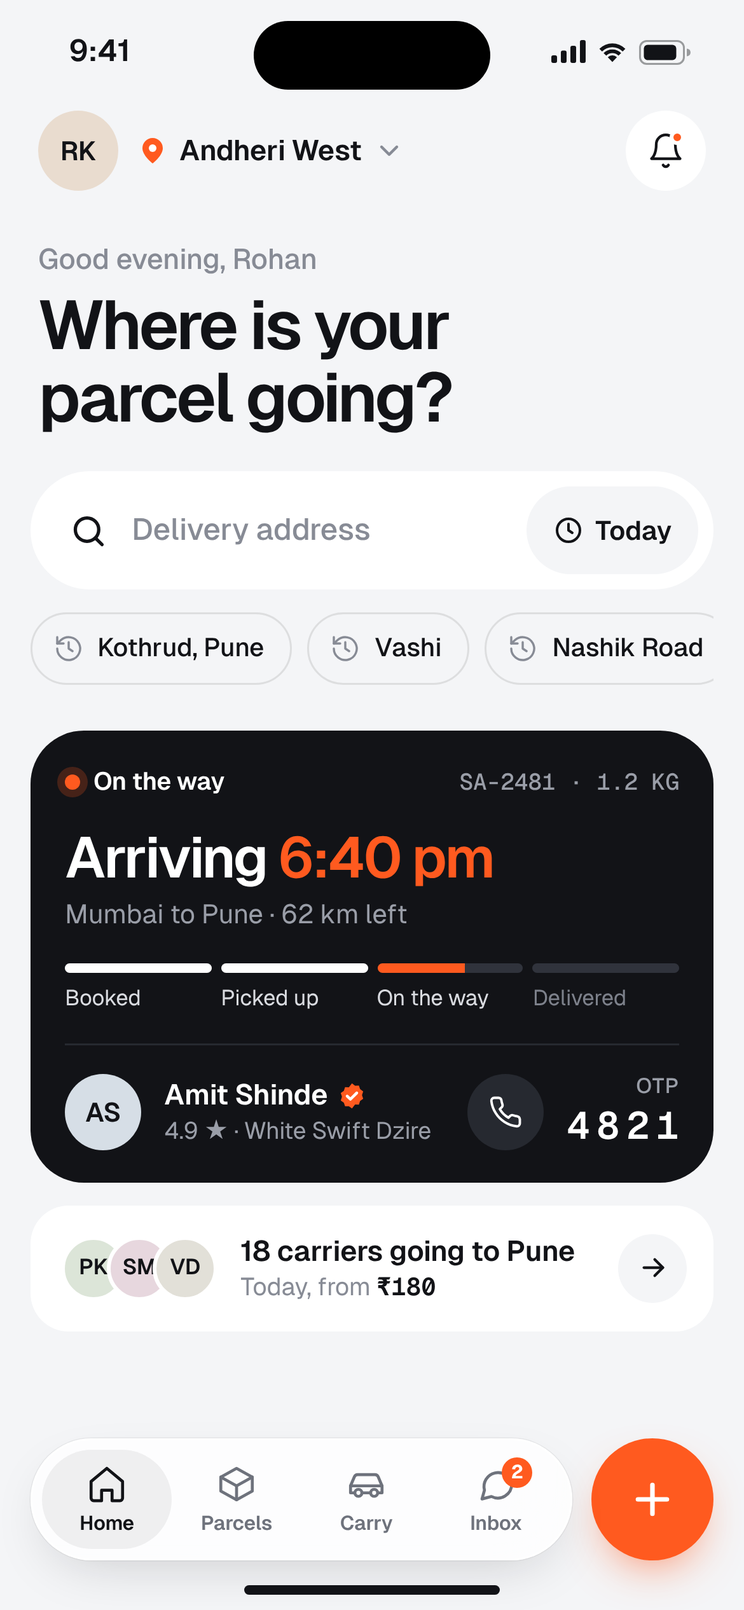
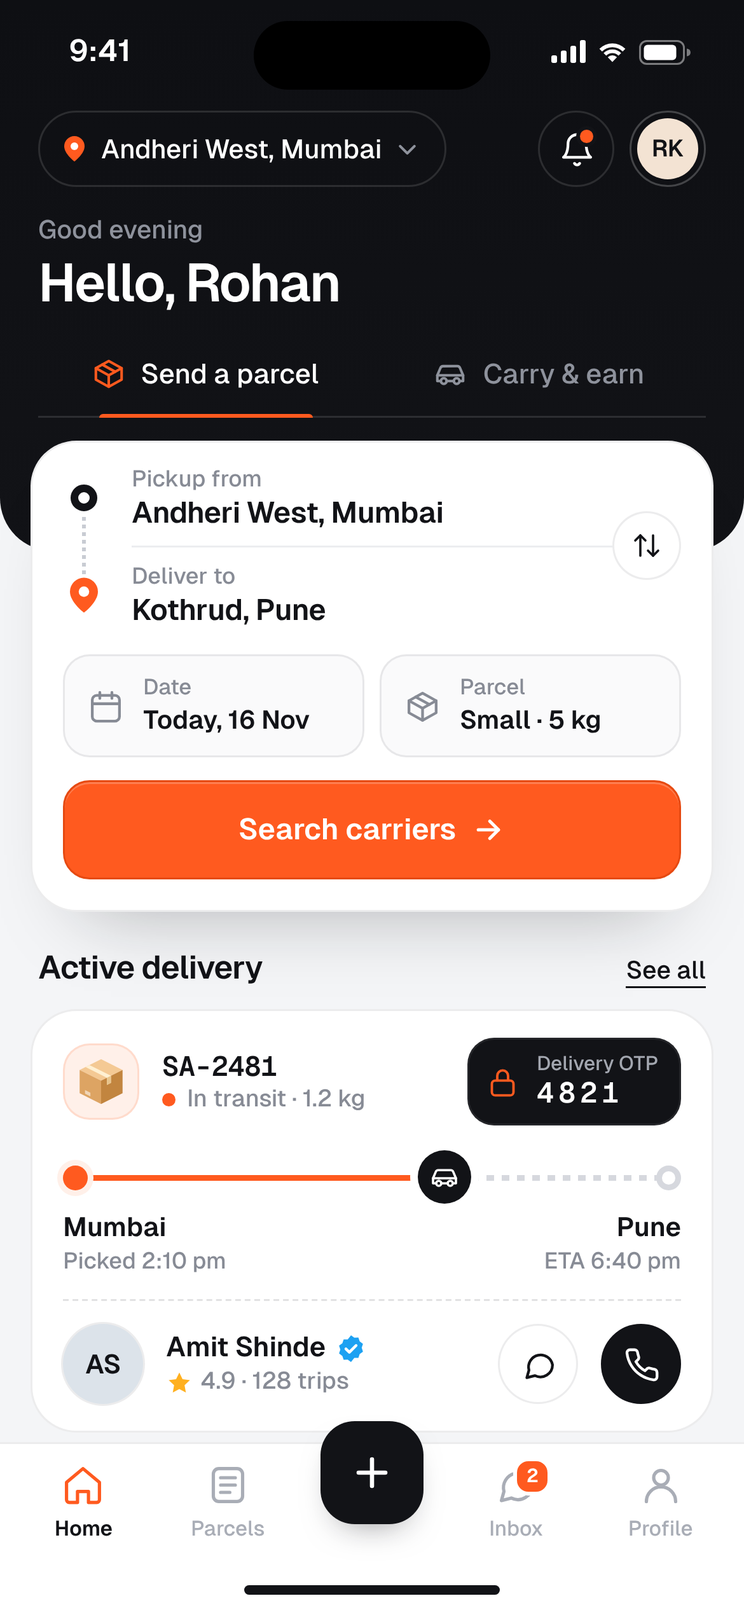
Parcel app: Home back to card format; Geist font, thin borders, new header (location pill, greeting, underline tabs)
Claude-Session: https://claude.ai/code/session_019gSuA1pXvK91U992uEGxpi

diff --git a/design/parcel-app/src/app.css b/design/parcel-app/src/app.css
@@ -1,5 +1,6 @@
 /* Parcel app · client UI kit (not Outgrid brand)
-   Font: Geist + Geist Mono (numbers, IDs, OTP) · Primary: Ember orange · Ink: near-black */
+   Font: Geist (+ Geist Mono for IDs and OTP) · Primary: Ember orange · Ink: near-black */
+
 @font-face{font-family:Geist;font-weight:400;src:url(fonts/geist-sans-latin-400-normal.woff2)}
 @font-face{font-family:Geist;font-weight:500;src:url(fonts/geist-sans-latin-500-normal.woff2)}
 @font-face{font-family:Geist;font-weight:600;src:url(fonts/geist-sans-latin-600-normal.woff2)}
@@ -13,97 +14,128 @@
   --bg:#F4F5F7; --card:#FFFFFF; --line:#ECEDF0;
   --text:#121317; --sub:#878B95; --sub2:#A9ADB6;
   --green:#16A765; --green-soft:#E7F7EF;
-  --r-sm:12px; --r-md:20px; --r-lg:28px;
-  --hair:rgba(18,19,23,.07);
+  --hair:rgba(18,19,23,.08); --hair-d:rgba(255,255,255,.12);
 }
 *{box-sizing:border-box;margin:0;padding:0}
 html,body{width:390px;height:844px;background:var(--bg)}
-body{font-family:Geist,sans-serif;color:var(--text);font-size:15px;line-height:1.35;letter-spacing:-.01em;-webkit-font-smoothing:antialiased}
-.mono{font-family:GeistMono,monospace;letter-spacing:0}
-svg.i{width:20px;height:20px;fill:none;stroke:currentColor;stroke-width:1.7;stroke-linecap:round;stroke-linejoin:round;flex:none}
+body{font-family:Geist,sans-serif;color:var(--text);font-size:14px;line-height:1.35;letter-spacing:-.005em;-webkit-font-smoothing:antialiased}
+b{font-weight:600}
+.mono{font-family:GeistMono,monospace}
+svg.i{width:20px;height:20px;fill:none;stroke:currentColor;stroke-width:1.8;stroke-linecap:round;stroke-linejoin:round;flex:none}
 
 .screen{position:relative;width:390px;height:844px;overflow:hidden;background:var(--bg)}
 
 /* status bar */
 .sb{height:50px;display:flex;align-items:center;justify-content:space-between;padding:4px 28px 0 36px;font-size:16px;font-weight:600;position:relative;z-index:2}
 .sb svg{fill:currentColor}
+.sb.light{color:#fff}
 .sbr{display:flex;gap:6px;align-items:center}
 .island{position:absolute;top:11px;left:50%;transform:translateX(-50%);width:124px;height:36px;border-radius:20px;background:#000;z-index:3}
 
-/* shared bits */
-.circle{width:42px;height:42px;border-radius:50%;background:var(--card);display:flex;align-items:center;justify-content:center;color:var(--ink);position:relative;flex:none}
-.circle .dot{position:absolute;top:10px;right:11px;width:8px;height:8px;border-radius:50%;background:var(--primary);border:2px solid var(--card)}
-.face{width:42px;height:42px;border-radius:50%;display:flex;align-items:center;justify-content:center;font-weight:600;font-size:14px;flex:none;color:var(--ink)}
-.f1{background:#E9DCCF}.f2{background:#D6DEE6}.f3{background:#DCE5D8}.f4{background:#E7D7DE}.f5{background:#E2E0D8}
+/* avatars */
+.avatar{width:46px;height:46px;border-radius:50%;display:flex;align-items:center;justify-content:center;font-weight:600;font-size:15px;flex:none}
+.avatar.sm{width:42px;height:42px;font-size:14px}
+.a1{background:linear-gradient(135deg,#FFB38F,#FF5A1F);color:#fff}
+.a2{background:#DCE3EA;color:var(--ink);box-shadow:0 0 0 1px var(--hair)}
 
 /* ---------- home ---------- */
-.top{display:flex;align-items:center;gap:10px;padding:8px 20px 0}
-.city{flex:1;display:flex;align-items:center;gap:6px;font-weight:600;font-size:15px}
-.city .i{width:16px;height:16px}
-.city .pin{color:var(--primary)}
-.city .chev{color:var(--sub);stroke-width:2.2}
+.head{background:linear-gradient(180deg,#0E0F13 0%,var(--ink) 100%);border-radius:0 0 28px 28px;padding-bottom:70px;position:relative;overflow:hidden}
+.hrow{display:flex;align-items:center;gap:8px;padding:8px 20px 0;position:relative;z-index:1}
+.locpill{display:flex;align-items:center;gap:6px;height:40px;padding:0 12px 0 10px;border-radius:20px;border:1px solid var(--hair-d);color:#fff;font-size:14px;font-weight:500;margin-right:auto}
+.locpill .i{width:16px;height:16px}
+.locpill .pin{color:var(--primary)}
+.locpill .chev{color:#8E929C;stroke-width:2.2;width:15px;height:15px}
+.hbtn{width:40px;height:40px;border-radius:50%;border:1px solid var(--hair-d);display:flex;align-items:center;justify-content:center;color:#fff;position:relative;flex:none}
+.hbtn .i{width:19px;height:19px}
+.bdot{position:absolute;top:9px;right:10px;width:7px;height:7px;border-radius:50%;background:var(--primary);box-shadow:0 0 0 2px var(--ink)}
+.me{width:40px;height:40px;border-radius:50%;border:1px solid rgba(255,255,255,.22);padding:3px;flex:none}
+.me span{width:100%;height:100%;border-radius:50%;background:#F3E3D3;color:var(--ink);display:flex;align-items:center;justify-content:center;font-size:12.5px;font-weight:600}
 
-.title{padding:26px 20px 0}
-.title small{display:block;color:var(--sub);font-size:15px;font-weight:500}
-.title h1{font-size:36px;line-height:1.04;font-weight:600;letter-spacing:-.045em;margin-top:6px}
+.hello{position:relative;z-index:1;padding:14px 20px 0}
+.hello small{display:block;color:#8E929C;font-size:13.5px;font-weight:500}
+.hello h1{color:#fff;font-size:28px;line-height:1.15;font-weight:600;letter-spacing:-.035em;margin-top:2px}
 
-.where{margin:20px 16px 0;height:62px;border-radius:31px;background:var(--card);display:flex;align-items:center;gap:12px;padding:0 8px 0 20px}
-.where .i{color:var(--ink);width:21px;height:21px;stroke-width:2}
-.where span{flex:1;color:var(--sub);font-size:16px;font-weight:500}
-.where .when{height:46px;border-radius:23px;background:var(--bg);display:flex;align-items:center;gap:6px;padding:0 14px;font-size:14px;font-weight:600;color:var(--ink)}
-.where .when .i{width:16px;height:16px}
+.tabs{display:grid;grid-template-columns:1fr 1fr;margin:10px 20px 0;border-bottom:1px solid var(--hair-d);position:relative;z-index:1}
+.tabs div{height:44px;display:flex;align-items:center;justify-content:center;gap:8px;color:#8E929C;font-weight:500;font-size:14.5px;position:relative}
+.tabs .i{width:18px;height:18px}
+.tabs .on{color:#fff}
+.tabs .on .i{color:var(--primary)}
+.tabs .on:after{content:"";position:absolute;left:18%;right:18%;bottom:-1px;height:2px;border-radius:2px 2px 0 0;background:var(--primary)}
 
-.recent{display:flex;gap:8px;margin:12px 16px 0;overflow:hidden}
-.chip{height:38px;border-radius:19px;background:transparent;border:1px solid rgba(18,19,23,.10);display:flex;align-items:center;gap:7px;padding:0 14px 0 11px;font-size:13.5px;font-weight:500;white-space:nowrap}
-.chip .i{width:16px;height:16px;color:var(--sub)}
+.search{position:relative;z-index:2;margin:-58px 16px 0;background:var(--card);border-radius:24px;padding:4px 16px 16px;border:1px solid var(--hair);
+  box-shadow:0 24px 40px -28px rgba(18,19,23,.35)}
+.field{display:flex;align-items:center;gap:14px;height:50px}
+.field small{display:block;color:var(--sub);font-size:12px;font-weight:500}
+.field b{display:block;font-size:15.5px;font-weight:600;letter-spacing:-.015em}
+.fi{width:22px;display:flex;justify-content:center;flex:none}
+.fi.from:before{content:"";width:14px;height:14px;border-radius:50%;border:4px solid var(--ink);box-sizing:border-box}
+.fi.to{color:var(--primary)}
+.fi.to .i{width:22px;height:22px}
+.sep{position:relative;height:1px;background:var(--line);margin-left:36px}
+.sep .dash{position:absolute;left:-26px;top:-15px;height:30px;border-left:2px dotted #C9CCD3}
+.swap{position:absolute;right:0;top:-18px;width:36px;height:36px;border-radius:50%;background:#fff;border:1px solid var(--hair);display:flex;align-items:center;justify-content:center;color:var(--ink)}
+.swap .i{width:16px;height:16px}
+.row2{display:grid;grid-template-columns:1fr 1fr;gap:8px;margin:6px 0 12px}
+.cell{display:flex;align-items:center;gap:10px;background:#FAFAFB;border:1px solid var(--hair);border-radius:14px;padding:9px 10px 9px 12px}
+.cell > div{flex:1}
+.cell .chev{width:16px;height:16px;color:var(--sub2);stroke-width:2.2}
+.cell .i{color:var(--sub);width:19px;height:19px}
+.cell small{display:block;color:var(--sub);font-size:11.5px;font-weight:500}
+.cell b{display:block;font-size:13.5px}
+.btn{height:52px;border-radius:14px;background:var(--primary);color:#fff;font-weight:600;font-size:15.5px;display:flex;align-items:center;justify-content:center;
+  gap:8px;border:1px solid var(--primary-dark);box-shadow:inset 0 1px 0 rgba(255,255,255,.22)}
+.btn .i{width:18px;height:18px;stroke-width:2.3}
 
-/* live delivery (dark) */
-.live{margin:24px 16px 0;background:var(--ink);color:#fff;border-radius:var(--r-lg);padding:18px 18px 16px}
-.live .lt{display:flex;align-items:center;justify-content:space-between;font-size:13px;color:#9a9ea8}
-.livetag{display:flex;align-items:center;gap:7px;color:#fff;font-weight:600}
-.livetag i{width:8px;height:8px;border-radius:50%;background:var(--primary);box-shadow:0 0 0 4px rgba(255,90,31,.22)}
-.live h2{font-size:30px;line-height:1.1;font-weight:600;letter-spacing:-.04em;margin-top:14px}
-.live h2 em{font-style:normal;color:var(--primary)}
-.live p{color:#9a9ea8;font-size:14px;margin-top:4px}
-.steps{display:grid;grid-template-columns:repeat(4,1fr);gap:5px;margin:16px 0 6px}
-.steps i{height:5px;border-radius:3px;background:#30333c}
-.steps i.on{background:#fff}
-.steps i.now{background:linear-gradient(90deg,var(--primary) 60%,#30333c 60%)}
-.stepl{display:grid;grid-template-columns:repeat(4,1fr);gap:5px;font-size:11.5px;color:#7d818b}
-.stepl span.on{color:#d9dbe0}
-.lb{display:flex;align-items:center;gap:12px;margin-top:16px;padding-top:14px;border-top:1px solid #262930}
-.lb .face{width:40px;height:40px}
-.lb .n{flex:1;min-width:0}
-.lb .n b{display:flex;align-items:center;gap:5px;font-size:15px;font-weight:600}
-.lb .n small{display:block;color:#9a9ea8;font-size:12.5px}
-.otp{text-align:right}
-.otp small{display:block;color:#9a9ea8;font-size:11px;font-weight:500;letter-spacing:.02em}
-.otp b{display:block;font-size:20px;font-weight:600;letter-spacing:.18em;margin-right:-.18em}
-.gbtn{width:40px;height:40px;border-radius:50%;background:#262930;display:flex;align-items:center;justify-content:center;color:#fff;flex:none}
-.gbtn .i{width:18px;height:18px}
+.sec{display:flex;justify-content:space-between;align-items:baseline;margin:18px 20px 10px}
+.sec b{font-size:17px;font-weight:600;letter-spacing:-.025em}
+.sec span{color:var(--ink);font-size:13px;font-weight:500;border-bottom:1px solid var(--ink);line-height:1.2}
 
-/* carriers going */
-.going{margin:12px 16px 0;background:var(--card);border-radius:var(--r-md);padding:14px 14px 14px 16px;display:flex;align-items:center;gap:12px}
-.stack{display:flex;flex:none}
-.stack .face{width:34px;height:34px;font-size:11.5px;border:2.5px solid var(--card);margin-left:-10px}
-.stack .face:first-child{margin-left:0}
-.going .t{flex:1;min-width:0}
-.going .t b{display:block;font-size:15px;font-weight:600}
-.going .t small{display:block;color:var(--sub);font-size:13px}
-.going .t small strong{color:var(--ink);font-weight:600}
-.arr{width:36px;height:36px;border-radius:50%;background:var(--bg);display:flex;align-items:center;justify-content:center;flex:none}
-.arr .i{width:17px;height:17px;stroke-width:2}
+.card{margin:0 16px;background:var(--card);border-radius:24px;padding:14px 16px;border:1px solid var(--hair)}
+.ctop{display:flex;align-items:center;gap:12px}
+.ptile{width:40px;height:40px;border-radius:14px;background:var(--primary-soft);border:1px solid rgba(255,90,31,.14);display:flex;align-items:center;justify-content:center;flex:none}
+.pid b{display:block;font-family:GeistMono,monospace;font-size:14.5px;font-weight:600}
+.pid small{display:block;color:var(--sub);font-size:12.5px;font-weight:500}
+.status{margin-left:auto;display:flex;align-items:center;gap:6px;background:var(--primary-soft);color:var(--primary-dark);font-size:12px;font-weight:600;border-radius:20px;padding:6px 10px}
+.status i{width:7px;height:7px;border-radius:50%;background:var(--primary);display:block}
+.track{position:relative;height:30px;margin:12px 0 2px}
+.track .bar{position:absolute;left:6px;right:6px;top:14px;height:3px;border-radius:2px;background-image:linear-gradient(90deg,#D6D8DE 50%,transparent 50%);background-size:8px 3px}
+.track .fill{position:absolute;left:6px;width:60%;top:14px;height:3px;border-radius:2px;background:var(--primary)}
+.track .n{position:absolute;top:9px;width:13px;height:13px;border-radius:50%}
+.track .start{left:0;background:var(--primary);box-shadow:0 0 0 3px var(--primary-soft)}
+.track .end{right:0;background:#fff;border:3px solid #D6D8DE}
+.track .car{position:absolute;left:calc(60% - 8px);top:1px;width:28px;height:28px;border-radius:50%;background:var(--ink);color:#fff;display:flex;align-items:center;justify-content:center;box-shadow:0 0 0 4px #fff}
+.track .car .i{width:16px;height:16px}
+.ends{display:flex;justify-content:space-between}
+.ends b{display:block;font-size:14px;font-weight:600}
+.ends small{display:block;color:var(--sub);font-size:12px;font-weight:500}
+.ends .r{text-align:right}
+.carrier{display:flex;align-items:center;gap:12px;margin-top:12px;padding-top:12px;border-top:1px dashed rgba(18,19,23,.12)}
+.cn{flex:1}
+.cn b{display:flex;align-items:center;gap:5px;font-size:14.5px}
+.cn small{display:flex;align-items:center;gap:4px;color:var(--sub);font-size:12.5px;font-weight:500}
+.vf{width:16px;height:16px}
+.star{width:14px;height:14px}
+.cbtn{width:42px;height:42px;border-radius:50%;border:1px solid var(--hair);display:flex;align-items:center;justify-content:center}
+.cbtn .i{width:19px;height:19px}
+.cbtn.soft{background:#fff;color:var(--ink)}
+.cbtn.solid{background:var(--ink);color:#fff;border-color:var(--ink)}
 
-/* floating tab bar (glass) */
-.dock{position:absolute;left:16px;right:16px;bottom:26px;height:64px;display:flex;gap:10px;z-index:5}
-.pillbar{flex:1;border-radius:32px;background:rgba(255,255,255,.78);backdrop-filter:blur(20px) saturate(1.6);-webkit-backdrop-filter:blur(20px) saturate(1.6);
-  border:1px solid rgba(255,255,255,.9);box-shadow:0 10px 30px -12px rgba(18,19,23,.22),0 0 0 .5px rgba(18,19,23,.06);display:grid;grid-template-columns:repeat(4,1fr);padding:5px}
-.tb{display:flex;flex-direction:column;align-items:center;justify-content:center;gap:2px;font-size:10.5px;font-weight:600;color:#6e727c;border-radius:27px}
-.tb .i{width:22px;height:22px}
-.tb.on{background:rgba(18,19,23,.06);color:var(--ink)}
-.tb .ib{position:relative;height:22px}
-.tb .ib em{position:absolute;top:-3px;right:-8px;min-width:16px;height:16px;padding:0 4px;border-radius:8px;background:var(--primary);color:#fff;font-style:normal;font-size:10px;font-weight:700;display:flex;align-items:center;justify-content:center}
-.fab{width:64px;height:64px;border-radius:50%;background:var(--primary);color:#fff;display:flex;align-items:center;justify-content:center;box-shadow:0 10px 24px -10px rgba(255,90,31,.8);flex:none}
-.fab .i{width:26px;height:26px;stroke-width:2.2}
-.fade{position:absolute;left:0;right:0;bottom:0;height:130px;background:linear-gradient(rgba(244,245,247,0),var(--bg) 60%);z-index:4;pointer-events:none}
-.homebar{position:absolute;bottom:8px;left:50%;transform:translateX(-50%);width:134px;height:5px;border-radius:3px;background:var(--ink);z-index:6}
+/* tab bar */
+.tabbar{position:absolute;left:0;right:0;bottom:0;height:88px;background:#fff;border-top:1px solid var(--hair);display:flex;justify-content:space-around;padding:10px 6px 0;z-index:5}
+.t{width:64px;display:flex;flex-direction:column;align-items:center;gap:4px;color:var(--sub2);font-size:11px;font-weight:500}
+.t .i{width:23px;height:23px}
+.t.on{color:var(--ink);font-weight:600}
+.t.on .i{color:var(--primary)}
+.t.mid span{width:54px;height:54px;border-radius:18px;background:var(--ink);color:#fff;display:flex;align-items:center;justify-content:center;margin-top:-22px;box-shadow:0 8px 18px -10px rgba(18,19,23,.55)}
+.t.mid .i{width:24px;height:24px;stroke-width:2.2}
+.ib{position:relative;display:block;height:23px}
+.ib em{position:absolute;top:-3px;right:-7px;min-width:16px;height:16px;border-radius:8px;background:var(--primary);color:#fff;font-style:normal;font-size:10px;font-weight:600;display:flex;align-items:center;justify-content:center;border:2px solid #fff;box-sizing:content-box}
+.homebar{position:absolute;bottom:8px;left:50%;transform:translateX(-50%);width:134px;height:5px;border-radius:3px;background:var(--ink)}
+
+/* delivery OTP chip */
+.pid small{display:flex;align-items:center;gap:6px}
+.pid small i{width:7px;height:7px;border-radius:50%;background:var(--primary);display:block}
+.otp{margin-left:auto;display:flex;align-items:center;gap:9px;background:var(--ink);color:#fff;border-radius:14px;padding:7px 12px 7px 10px;box-shadow:inset 0 0 0 1px rgba(255,255,255,.08)}
+.otp .i{width:17px;height:17px;color:var(--primary)}
+.otp small{display:block;font-size:10.5px;color:#A3A7B0;font-weight:500;line-height:1.25}
+.otp b{display:block;font-family:GeistMono,monospace;font-size:15px;font-weight:600;letter-spacing:.16em;line-height:1.25}

diff --git a/design/parcel-app/src/01_home.html b/design/parcel-app/src/01_home.html
@@ -8,90 +8,116 @@
 <body>
 <div class="screen">
 
-  <div class="sb">
-    <span>9:41</span>
-    <span class="sbr">
-      <svg width="18" height="12" viewBox="0 0 18 12"><rect x="0" y="8" width="3" height="4" rx="1"/><rect x="5" y="5.5" width="3" height="6.5" rx="1"/><rect x="10" y="3" width="3" height="9" rx="1"/><rect x="15" y="0" width="3" height="12" rx="1"/></svg>
-      <svg width="16" height="12" viewBox="0 0 16 12"><path d="M8 11.5 5.6 9a3.4 3.4 0 0 1 4.8 0Z"/><path d="M3.4 6.8a6.5 6.5 0 0 1 9.2 0l-1.4 1.4a4.5 4.5 0 0 0-6.4 0Z"/><path d="M1.2 4.6a9.6 9.6 0 0 1 13.6 0l-1.4 1.4a7.6 7.6 0 0 0-10.8 0Z"/></svg>
-      <svg width="27" height="13" viewBox="0 0 27 13"><rect x=".5" y=".5" width="23" height="12" rx="3.5" fill="none" stroke="currentColor" opacity=".4"/><rect x="2.5" y="2.5" width="17" height="8" rx="2"/><path d="M25 4.5v4a2 2 0 0 0 0-4Z" opacity=".4"/></svg>
-    </span>
-  </div>
-  <div class="island"></div>
-
-  <div class="top">
-    <div class="face f1">RK</div>
-    <div class="city"><svg class="i pin"><use href="#pin"/></svg>Andheri West<svg class="i chev"><use href="#down"/></svg></div>
-    <div class="circle"><svg class="i"><use href="#bell"/></svg><span class="dot"></span></div>
-  </div>
-
-  <div class="title">
-    <small>Good evening, Rohan</small>
-    <h1>Where is your<br>parcel going?</h1>
-  </div>
-
-  <div class="where">
-    <svg class="i"><use href="#search"/></svg>
-    <span>Delivery address</span>
-    <div class="when"><svg class="i"><use href="#clock"/></svg>Today</div>
-  </div>
-
-  <div class="recent">
-    <div class="chip"><svg class="i"><use href="#hist"/></svg>Kothrud, Pune</div>
-    <div class="chip"><svg class="i"><use href="#hist"/></svg>Vashi</div>
-    <div class="chip"><svg class="i"><use href="#hist"/></svg>Nashik Road</div>
-  </div>
-
-  <div class="live">
-    <div class="lt">
-      <span class="livetag"><i></i>On the way</span>
-      <span class="mono" style="font-size:12px">SA-2481 · 1.2 KG</span>
+  <!-- header -->
+  <div class="head">
+    <div class="sb light">
+      <span>9:41</span>
+      <span class="sbr">
+        <svg width="18" height="12" viewBox="0 0 18 12"><rect x="0" y="8" width="3" height="4" rx="1"/><rect x="5" y="5.5" width="3" height="6.5" rx="1"/><rect x="10" y="3" width="3" height="9" rx="1"/><rect x="15" y="0" width="3" height="12" rx="1"/></svg>
+        <svg width="16" height="12" viewBox="0 0 16 12"><path d="M8 11.5 5.6 9a3.4 3.4 0 0 1 4.8 0Z"/><path d="M3.4 6.8a6.5 6.5 0 0 1 9.2 0l-1.4 1.4a4.5 4.5 0 0 0-6.4 0Z"/><path d="M1.2 4.6a9.6 9.6 0 0 1 13.6 0l-1.4 1.4a7.6 7.6 0 0 0-10.8 0Z"/></svg>
+        <svg width="27" height="13" viewBox="0 0 27 13"><rect x=".5" y=".5" width="23" height="12" rx="3.5" fill="none" stroke="currentColor" opacity=".45"/><rect x="2.5" y="2.5" width="17" height="8" rx="2"/><path d="M25 4.5v4a2 2 0 0 0 0-4Z" opacity=".45"/></svg>
+      </span>
     </div>
-    <h2>Arriving <em>6:40 pm</em></h2>
-    <p>Mumbai to Pune · 62 km left</p>
-    <div class="steps"><i class="on"></i><i class="on"></i><i class="now"></i><i></i></div>
-    <div class="stepl"><span class="on">Booked</span><span class="on">Picked up</span><span class="on">On the way</span><span>Delivered</span></div>
-    <div class="lb">
-      <div class="face f2">AS</div>
-      <div class="n"><b>Amit Shinde <svg width="15" height="15"><use href="#verified"/></svg></b><small>4.9 ★ · White Swift Dzire</small></div>
-      <div class="gbtn"><svg class="i"><use href="#phone"/></svg></div>
-      <div class="otp"><small>OTP</small><b class="mono">4821</b></div>
+    <div class="island"></div>
+
+    <div class="hrow">
+      <div class="locpill"><svg class="i pin"><use href="#pinf"/></svg>Andheri West, Mumbai<svg class="i chev"><use href="#down"/></svg></div>
+      <div class="hbtn"><svg class="i"><use href="#bell"/></svg><span class="bdot"></span></div>
+      <div class="me"><span>RK</span></div>
+    </div>
+
+    <div class="hello">
+      <small>Good evening</small>
+      <h1>Hello, Rohan</h1>
+    </div>
+
+    <div class="tabs">
+      <div class="on"><svg class="i"><use href="#box"/></svg>Send a parcel</div>
+      <div><svg class="i"><use href="#car"/></svg>Carry &amp; earn</div>
     </div>
   </div>
 
-  <div class="going">
-    <div class="stack"><div class="face f3">PK</div><div class="face f4">SM</div><div class="face f5">VD</div></div>
-    <div class="t"><b>18 carriers going to Pune</b><small>Today, from <strong class="mono">₹180</strong></small></div>
-    <div class="arr"><svg class="i"><use href="#arrow"/></svg></div>
+  <!-- search card -->
+  <div class="search">
+    <div class="field">
+      <span class="fi from"></span>
+      <div><small>Pickup from</small><b>Andheri West, Mumbai</b></div>
+    </div>
+    <div class="sep"><span class="dash"></span><div class="swap"><svg class="i"><use href="#swap"/></svg></div></div>
+    <div class="field">
+      <span class="fi to"><svg class="i"><use href="#pinf"/></svg></span>
+      <div><small>Deliver to</small><b>Kothrud, Pune</b></div>
+    </div>
+    <div class="row2">
+      <div class="cell"><svg class="i"><use href="#cal"/></svg><div><small>Date</small><b>Today, 16 Nov</b></div></div>
+      <div class="cell"><svg class="i"><use href="#box"/></svg><div><small>Parcel</small><b>Small · 5 kg</b></div></div>
+    </div>
+    <div class="btn">Search carriers <svg class="i"><use href="#arrow"/></svg></div>
   </div>
 
-  <div class="fade"></div>
-  <div class="dock">
-    <div class="pillbar">
-      <div class="tb on"><svg class="i"><use href="#home"/></svg>Home</div>
-      <div class="tb"><svg class="i"><use href="#box"/></svg>Parcels</div>
-      <div class="tb"><svg class="i"><use href="#car"/></svg>Carry</div>
-      <div class="tb"><span class="ib"><svg class="i"><use href="#chat"/></svg><em>2</em></span>Inbox</div>
+  <!-- active delivery -->
+  <div class="sec"><b>Active delivery</b><span>See all</span></div>
+  <div class="card">
+    <div class="ctop">
+      <div class="ptile"><svg width="30" height="30"><use href="#parcel"/></svg></div>
+      <div class="pid"><b>SA-2481</b><small><i></i>In transit · 1.2 kg</small></div>
+      <span class="otp"><svg class="i"><use href="#lock"/></svg><span><small>Delivery OTP</small><b>4821</b></span></span>
     </div>
-    <div class="fab"><svg class="i"><use href="#plus"/></svg></div>
+    <div class="track">
+      <div class="bar"></div><div class="fill"></div>
+      <span class="n start"></span><span class="n end"></span>
+      <span class="car"><svg class="i"><use href="#car"/></svg></span>
+    </div>
+    <div class="ends">
+      <div><b>Mumbai</b><small>Picked 2:10 pm</small></div>
+      <div class="r"><b>Pune</b><small>ETA 6:40 pm</small></div>
+    </div>
+    <div class="carrier">
+      <div class="avatar a2 sm">AS</div>
+      <div class="cn"><b>Amit Shinde <svg class="vf"><use href="#verified"/></svg></b><small><svg class="star"><use href="#star"/></svg>4.9 · 128 trips</small></div>
+      <div class="cbtn soft"><svg class="i"><use href="#chat"/></svg></div>
+      <div class="cbtn solid"><svg class="i"><use href="#phone"/></svg></div>
+    </div>
   </div>
-  <div class="homebar"></div>
+
+  <!-- tab bar -->
+  <div class="tabbar">
+    <div class="t on"><svg class="i"><use href="#home"/></svg>Home</div>
+    <div class="t"><svg class="i"><use href="#list"/></svg>Parcels</div>
+    <div class="t mid"><span><svg class="i"><use href="#plus"/></svg></span></div>
+    <div class="t"><span class="ib"><svg class="i"><use href="#chat"/></svg><em>2</em></span>Inbox</div>
+    <div class="t"><svg class="i"><use href="#user"/></svg>Profile</div>
+    <div class="homebar"></div>
+  </div>
 </div>
 
 <svg width="0" height="0" style="position:absolute"><defs>
   <symbol id="bell" viewBox="0 0 24 24"><path d="M6 8a6 6 0 1 1 12 0c0 7 3 9 3 9H3s3-2 3-9"/><path d="M10.3 21a1.94 1.94 0 0 0 3.4 0"/></symbol>
-  <symbol id="pin" viewBox="0 0 24 24"><path d="M20 10c0 6-8 12-8 12s-8-6-8-12a8 8 0 0 1 16 0Z" fill="currentColor" stroke="none"/><circle cx="12" cy="10" r="3" fill="#fff" stroke="none"/></symbol>
+  <symbol id="pin" viewBox="0 0 24 24"><path d="M20 10c0 6-8 12-8 12s-8-6-8-12a8 8 0 0 1 16 0Z"/><circle cx="12" cy="10" r="3"/></symbol>
+  <symbol id="pinf" viewBox="0 0 24 24"><path d="M20 10c0 6-8 12-8 12s-8-6-8-12a8 8 0 0 1 16 0Z" fill="currentColor" stroke="none"/><circle cx="12" cy="10" r="3" fill="#fff" stroke="none"/></symbol>
   <symbol id="down" viewBox="0 0 24 24"><path d="m6 9 6 6 6-6"/></symbol>
-  <symbol id="search" viewBox="0 0 24 24"><circle cx="11" cy="11" r="7"/><path d="m20 20-3.5-3.5"/></symbol>
-  <symbol id="clock" viewBox="0 0 24 24"><circle cx="12" cy="12" r="9"/><path d="M12 7v5l3 2"/></symbol>
-  <symbol id="hist" viewBox="0 0 24 24"><path d="M3 12a9 9 0 1 0 3-6.7L3 8"/><path d="M3 3v5h5"/><path d="M12 7v5l3 2"/></symbol>
-  <symbol id="box" viewBox="0 0 24 24"><path d="M21 8 12 3 3 8v8l9 5 9-5Z"/><path d="m3 8 9 5 9-5"/><path d="M12 13v8"/></symbol>
+  <symbol id="box" viewBox="0 0 24 24"><path d="M21 8 12 3 3 8v8l9 5 9-5Z"/><path d="m3 8 9 5 9-5"/><path d="M12 13v8"/><path d="m7.5 5.5 9 5"/></symbol>
   <symbol id="car" viewBox="0 0 24 24"><path d="M19 17h2v-4l-2.2-5.2A2 2 0 0 0 17 6.6H7a2 2 0 0 0-1.8 1.2L3 13v4h2"/><circle cx="7.5" cy="17" r="2"/><circle cx="16.5" cy="17" r="2"/><path d="M9.5 17h5"/><path d="M3 13h18"/></symbol>
-  <symbol id="arrow" viewBox="0 0 24 24"><path d="M5 12h14"/><path d="m13 6 6 6-6 6"/></symbol>
+  <symbol id="swap" viewBox="0 0 24 24"><path d="M7 4v16"/><path d="m3 8 4-4 4 4"/><path d="M17 20V4"/><path d="m21 16-4 4-4-4"/></symbol>
+  <symbol id="cal" viewBox="0 0 24 24"><rect x="3" y="4.5" width="18" height="17" rx="3"/><path d="M8 2.5v4M16 2.5v4M3 10h18"/></symbol>
   <symbol id="chat" viewBox="0 0 24 24"><path d="M21 12a8 8 0 0 1-11.6 7.1L4 20.5l1.4-5A8 8 0 1 1 21 12Z"/></symbol>
   <symbol id="phone" viewBox="0 0 24 24"><path d="M22 16.9v3a2 2 0 0 1-2.2 2 19.8 19.8 0 0 1-8.6-3.1 19.5 19.5 0 0 1-6-6A19.8 19.8 0 0 1 2.1 4.2 2 2 0 0 1 4.1 2h3a2 2 0 0 1 2 1.7c.1 1 .4 1.9.7 2.8a2 2 0 0 1-.5 2.1L8 9.9a16 16 0 0 0 6 6l1.3-1.3a2 2 0 0 1 2.1-.4c.9.3 1.8.6 2.8.7a2 2 0 0 1 1.7 2Z"/></symbol>
   <symbol id="home" viewBox="0 0 24 24"><path d="M3 10.5 12 3l9 7.5V20a1.5 1.5 0 0 1-1.5 1.5H15v-6H9v6H4.5A1.5 1.5 0 0 1 3 20Z"/></symbol>
+  <symbol id="list" viewBox="0 0 24 24"><rect x="4" y="3" width="16" height="18" rx="3"/><path d="M8 8h8M8 12h8M8 16h5"/></symbol>
+  <symbol id="arrow" viewBox="0 0 24 24"><path d="M5 12h14"/><path d="m13 6 6 6-6 6"/></symbol>
+  <symbol id="lock" viewBox="0 0 24 24"><rect x="4" y="10.5" width="16" height="11" rx="2.5"/><path d="M8 10.5V7a4 4 0 0 1 8 0v3.5"/></symbol>
   <symbol id="plus" viewBox="0 0 24 24"><path d="M12 5v14M5 12h14"/></symbol>
-  <symbol id="verified" viewBox="0 0 24 24"><path fill="#FF5A1F" d="M12 1.5l2.6 1.9 3.2-.1 1 3 2.6 1.9-1 3.1 1 3.1-2.6 1.9-1 3-3.2-.1L12 22.5l-2.6-1.9-3.2.1-1-3-2.6-1.9 1-3.1-1-3.1 2.6-1.9 1-3 3.2.1Z"/><path d="m8 12.2 2.7 2.6L16 9.5" fill="none" stroke="#fff" stroke-width="2.4" stroke-linecap="round" stroke-linejoin="round"/></symbol>
+  <symbol id="user" viewBox="0 0 24 24"><circle cx="12" cy="8" r="4"/><path d="M4 21a8 8 0 0 1 16 0"/></symbol>
+  <symbol id="verified" viewBox="0 0 24 24"><path fill="#1DA1F2" d="M12 1.5l2.6 1.9 3.2-.1 1 3 2.6 1.9-1 3.1 1 3.1-2.6 1.9-1 3-3.2-.1L12 22.5l-2.6-1.9-3.2.1-1-3-2.6-1.9 1-3.1-1-3.1 2.6-1.9 1-3 3.2.1Z"/><path d="m8 12.2 2.7 2.6L16 9.5" fill="none" stroke="#fff" stroke-width="2.2" stroke-linecap="round" stroke-linejoin="round"/></symbol>
+  <symbol id="star" viewBox="0 0 24 24"><path fill="#FFB020" d="m12 2.5 2.9 6 6.6.9-4.8 4.6 1.2 6.5L12 17.4l-5.9 3.1 1.2-6.5L2.5 9.4l6.6-.9Z"/></symbol>
+  <symbol id="parcel" viewBox="0 0 64 64">
+    <path d="M32 7 56 19 32 31 8 19Z" fill="#F4C994"/>
+    <path d="M8 19 32 31v26L8 45Z" fill="#DDA463"/>
+    <path d="M56 19 32 31v26l24-12Z" fill="#C2853F"/>
+    <path d="M19 13.5 43 25.5v8l-4.5 2.2v-8L14.5 15.7Z" fill="#FFF0D2"/>
+    <path d="M43 25.5 38.5 27.7v8l4.5-2.2Z" fill="#E8C48C"/>
+    <path d="M14 41.5l6 3v4l-6-3Z" fill="#fff" opacity=".55"/>
+  </symbol>
 </defs></svg>
 </body>
 </html>
